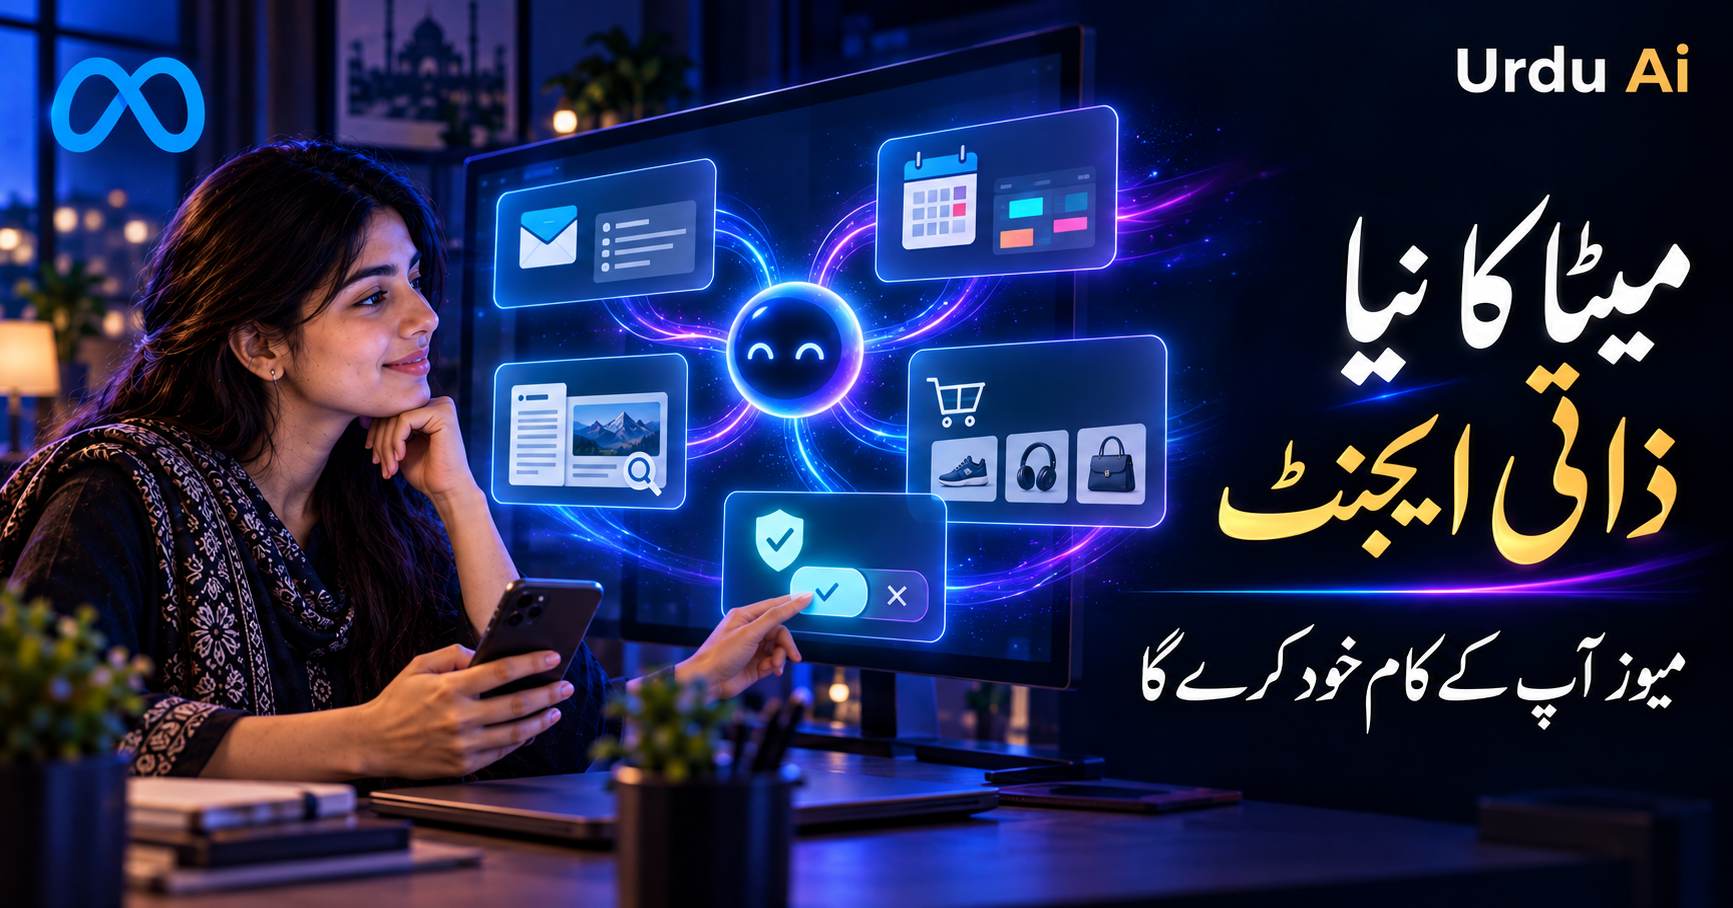
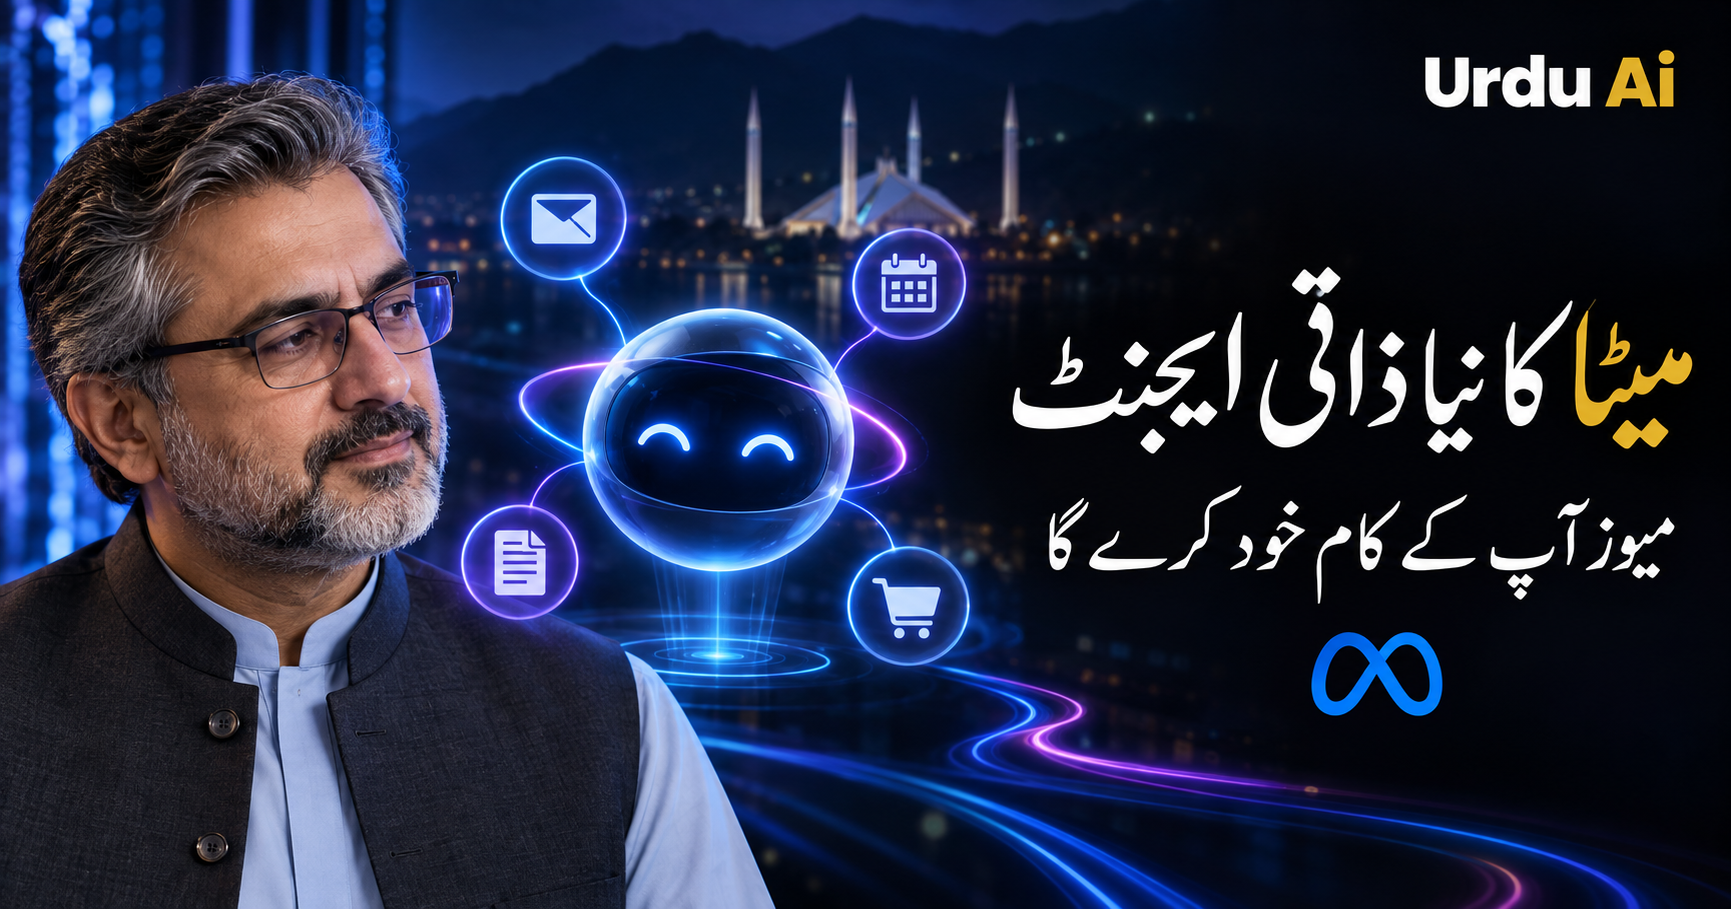
Replace Meta Muse cover artwork

diff --git a/src/content/blog/meta-muse-personal-ai-agent-how-to-use-urdu.md b/src/content/blog/meta-muse-personal-ai-agent-how-to-use-urdu.md
@@ -16,8 +16,8 @@ tags:
   - AI Agents
   - Personal AI
 image: "/images/blog/meta-muse-personal-ai-agent-how-to-use-urdu.png"
-image_width: 1733
-image_height: 908
+image_width: 1731
+image_height: 909
 author: "اردو اے آئی ٹیم"
 adsense: true
 draft: false
